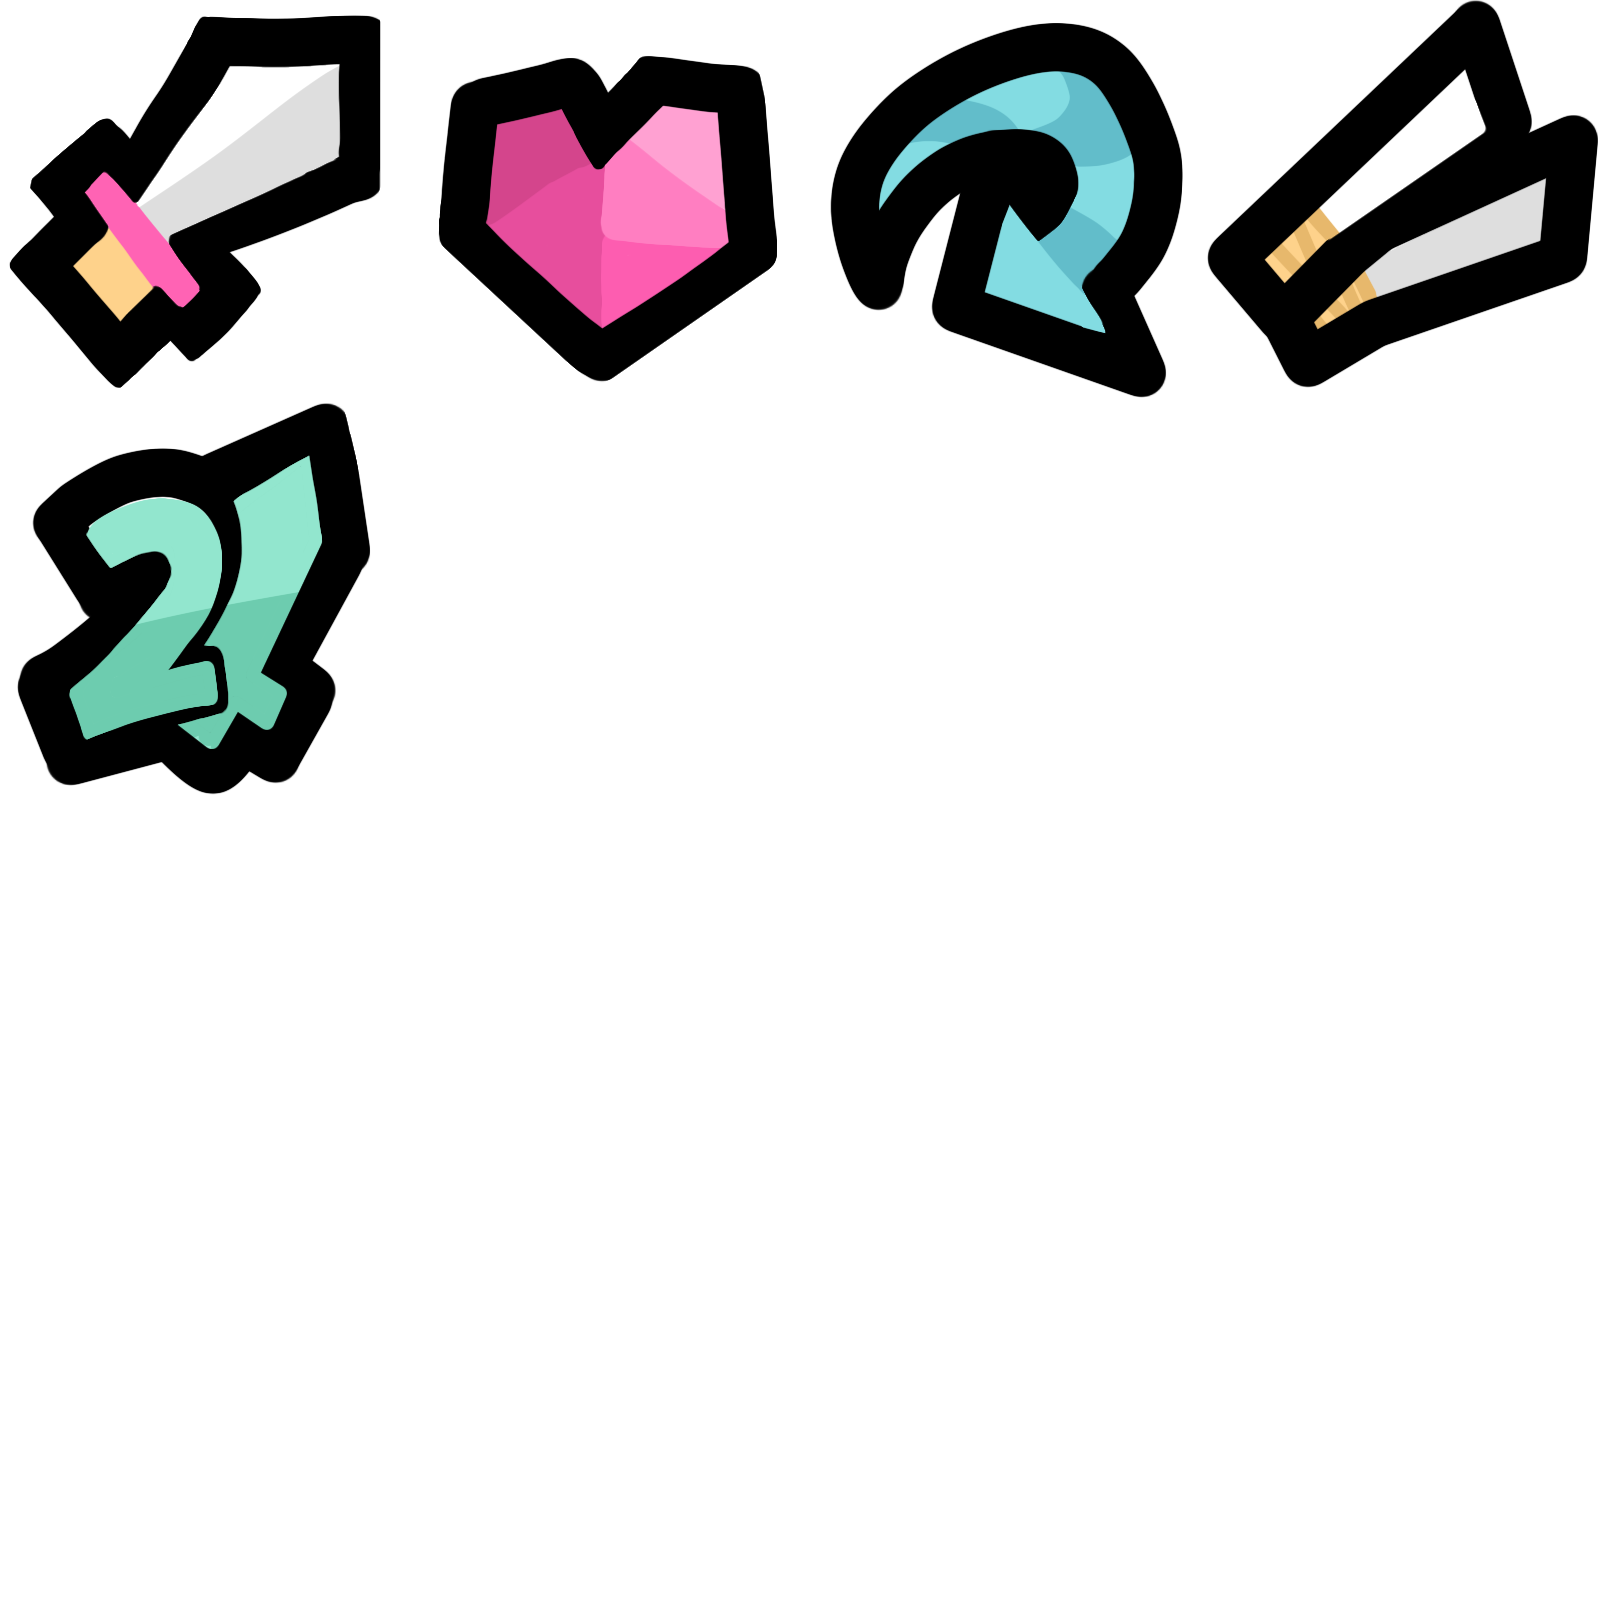
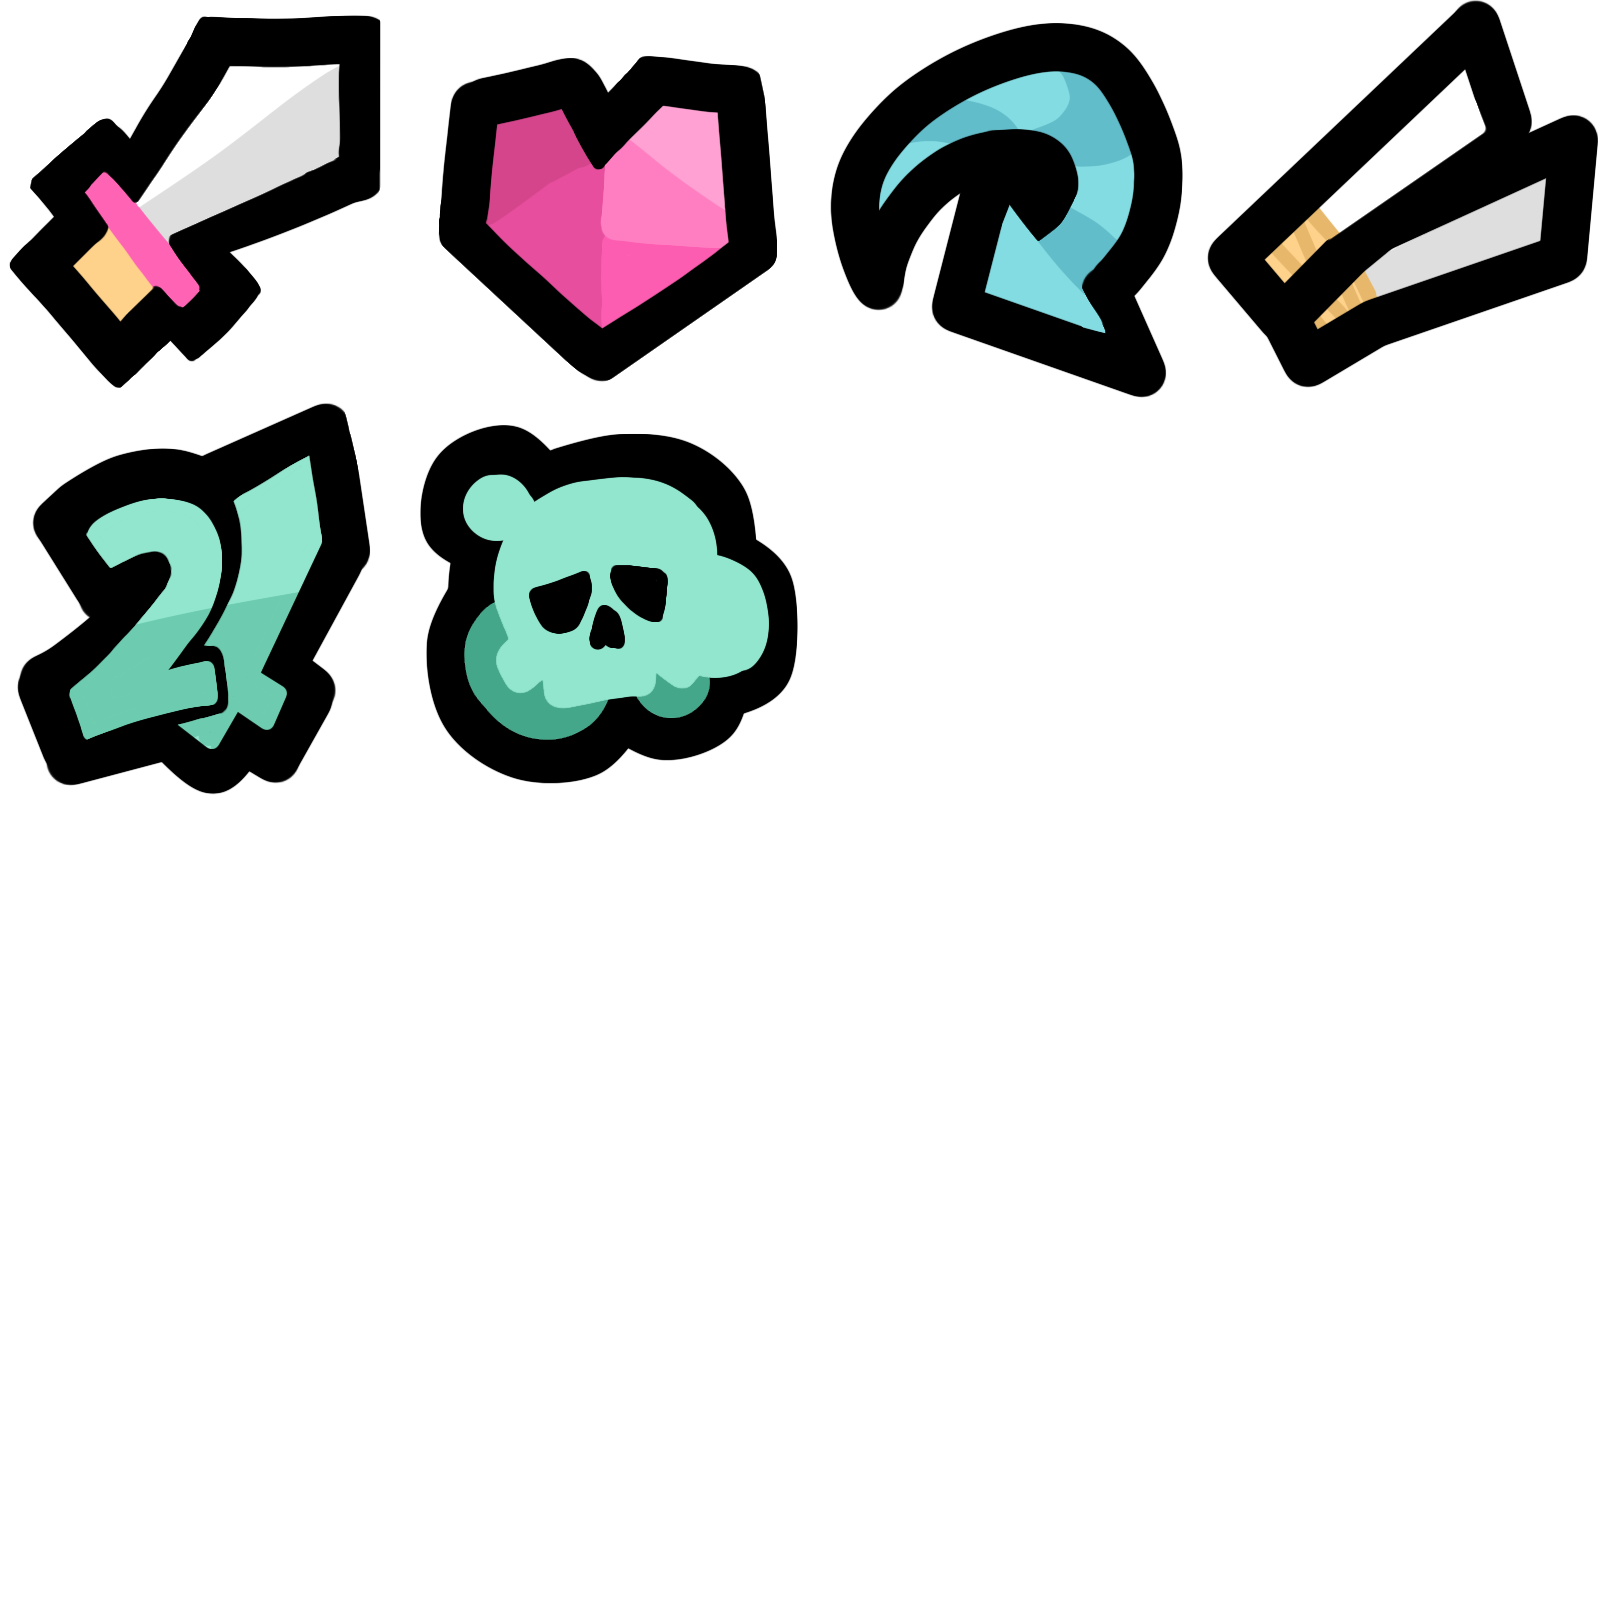
add remain, poison

Changed region(s): [[0.25, 0.25, 0.5, 0.5]]

diff --git a/Assets/Game/Card/Card_Poison.cs b/Assets/Game/Card/Card_Poison.cs
@@ -1,0 +1,97 @@
+using System.Collections;
+using System.Collections.Generic;
+using UnityEngine;
+using Act;
+
+public class Card_Poison : CardData
+{
+    public override IEnumerator OnStart(Entity[] es, int slotCount, int intensity)
+    {
+        Query query = new Query();
+
+        if (intensity > 0)
+        {
+            var act = new Remain(slotCount);
+            query.Add(act);
+            var effect = GameManager.Instance.uiEffectBubble.PrintBySlot(slotCount, "Magic", 1);
+            query.AddBubble(act, effect);
+
+            var i = new SetIntensity(slotCount, intensity - 1);
+            query.Add(i);
+        }
+        else if (intensity == 0)
+        {
+            var act = new Attack(es[1], 2);
+            query.Add(act);
+            var effect = GameManager.Instance.uiEffectBubble.PrintBySlot(slotCount, "Attack", 2);
+            query.AddBubble(act, effect);
+            var del = new Del(slotCount);
+            query.Add(del);
+        }
+
+        yield return new WaitForSeconds(0.5f);
+        yield return query.Process($"{es[0].entityType}{slotCount:00}Poison");
+    }
+
+    public override IEnumerator OnInitialize(Entity[] es, int slotCount, int intensity)
+    {
+        var act = new AddTrigger(new Trigger("A", "A", query => Trigger(query, slotCount, es), query =>
+        {
+            foreach (var act in query)
+            {
+                if (!act.GetType().IsAssignableFrom(typeof(Del)))
+                    continue;
+                var del = (Del)act;
+                Debug.Log($"{CardField.Slot2Count(del.pos)} {slotCount}");
+                if (CardField.Slot2Count(del.pos) == slotCount)
+                    return true;
+            }
+            return false;
+        }));
+        Query query = new Query(act);
+
+        yield return query.Process($"{es[0].entityType}{slotCount:00}AddTrigger");
+    }
+
+    private IEnumerator Trigger(Query query, int slotCount, Entity[] es)
+    {
+        bool isUseful = false;
+        int decrease = 0;
+
+        foreach (var a in query)
+        {
+            if (a.GetType().IsAssignableFrom(typeof(Attack)))
+            {
+                Attack attack = (Attack)a;
+                if (attack.target != es[0])
+                    continue;
+
+                isUseful = true;
+
+                decrease += 1;
+            }
+        }
+
+        if (isUseful)
+        {
+            var slot = GameManager.Instance.card.field.GetSlot(slotCount);
+            int newIntensity = slot.intensity - decrease;
+            if (newIntensity < 0)
+            {
+                var del = new Del(slotCount);
+                query.Add(del);
+            }
+            else
+            {
+                var act = new SetIntensity(slotCount, newIntensity);
+                query.Add(act);
+
+                var effect = GameManager.Instance.uiEffectBubble.PrintBySlot(slotCount, "Magic", decrease);
+                query.AddBubble(act, effect);
+            }
+            yield return new WaitForSeconds(0.5f);
+        }
+        else
+            yield break;
+    }
+}

diff --git a/Assets/Game/UI/CardField.cs b/Assets/Game/UI/CardField.cs
@@ -25,6 +25,7 @@ public class CardField : MonoBehaviour
     }
     public int cardCount { get; private set; }
     public CardFieldItem currentSlot { get => GetSlot(currentPos); }
+    public bool isRunning { get; private set; }
 
     private void Start()
     {
@@ -50,6 +51,8 @@ public class CardField : MonoBehaviour
 
     public IEnumerator RunField()
     {
+        isRunning = true;
+
         currentDir = Vector2Int.right;
         currentPos = Vector2Int.zero;
 
@@ -58,13 +61,23 @@ public class CardField : MonoBehaviour
             for (int y = 0; y < 3; y++)
             {
                 CardFieldItem item = field[x, y];
-                if (item.cardData != null && !item.isCardInitialized)
+                if (item.cardData != null)
                 {
-                    item.isCardInitialized = true;
-                    yield return CardSystem.InvokeTrigger(new Query(), $"AS{Slot2Count(new Vector2Int(x, y)):00}Init");
+                    int count = Slot2Count(new Vector2Int(x, y));
+
+                    if (!item.isCardInitialized)
+                    {
+                        item.isCardInitialized = true;
+
+                        yield return item.InitializeCard(count);
+                        yield return CardSystem.InvokeTrigger(new Query(), $"AS{count:00}Init");
+                    }
+
+                    yield return item.StartCard(count);
                 }
             }
         }
+        yield return new WaitForSeconds(0.5f);
 
         int i;
         var w = new WaitForSeconds(0.05f);
@@ -105,6 +118,11 @@ public class CardField : MonoBehaviour
             for (int y = 0; y < 3; y++)
             {
                 CardFieldItem item = field[x, y];
+                if (item.isRemaining)
+                {
+                    item.isRemaining = false;
+                    continue;
+                }
                 if (item.cardData != null)
                 {
                     var query = new Query(new Del(new Vector2Int(x, y)));
@@ -119,6 +137,8 @@ public class CardField : MonoBehaviour
 
         cardSelector.AddCard(0, GameManager.Instance.card.GetRandomCard());
         cardSelector.AddCard(0, GameManager.Instance.card.GetRandomCard());
+
+        isRunning = false;
 
         yield break;
     }
@@ -150,6 +170,11 @@ public class CardField : MonoBehaviour
         return field[pos[0], pos[1]];
     }
 
+    public CardFieldItem GetSlot(int count)
+    {
+        return GetSlot(Count2Slot(count));
+    }
+
     //temp
     private void RandomFill()
     {
@@ -157,7 +182,7 @@ public class CardField : MonoBehaviour
         {
             for (int j = 0; j < 3; j++)
             {
-                if (Random.value < 0.5f)
+                if (field[i, j].cardData == null && Random.value < 0.5f)
                 {
                     SetCard(i, j, GameManager.Instance.card.GetRandomCard(), EntityType.E);
                 }

diff --git a/Assets/Game/Card/Act.cs b/Assets/Game/Card/Act.cs
@@ -79,6 +79,44 @@ namespace Act
         }
     }
 
+    public class Remain: IAct
+    {
+        int slotCount;
+        bool remain;
+
+        public Remain(int slotCount, bool remain = true)
+        {
+            this.slotCount = slotCount;
+            this.remain = remain;
+        }
+
+        public IEnumerator Activate()
+        {
+            CardField field = GameManager.Instance.card.field;
+            field.GetSlot(slotCount).isRemaining = remain;
+            yield break;
+        }
+    }
+
+    public class SetIntensity: IAct
+    {
+        int slotCount;
+        int intensity;
+
+        public SetIntensity(int slotCount, int intensity)
+        {
+            this.slotCount = slotCount;
+            this.intensity = intensity;
+        }
+
+        public IEnumerator Activate()
+        {
+            CardField field = GameManager.Instance.card.field;
+            field.GetSlot(slotCount).intensity = intensity;
+            yield break;
+        }
+    }
+
     public class Del: IAct
     {
         public Vector2Int pos;
@@ -90,7 +128,7 @@ namespace Act
 
         public Del(int slotCount)
         {
-            pos = new Vector2Int(slotCount / 3, slotCount % 3);
+            pos = CardField.Count2Slot(slotCount);
         }
 
         public IEnumerator Activate()
@@ -175,7 +213,6 @@ namespace Act
             {
                 yield return acts[i].Activate();
             }
-            acts.Clear();
             yield break;
         }
 
@@ -183,7 +220,15 @@ namespace Act
         {
             yield return CardSystem.InvokeTrigger(this, "P" + triggerSuffix);
             yield return Invoke();
+
+            IAct[] temp = new IAct[acts.Count];
+            acts.CopyTo(temp);
+
             yield return CardSystem.InvokeTrigger(this, "A" + triggerSuffix);
+
+            foreach (var act in temp)
+                Remove(act);
+
             yield return Invoke();
         }
 

diff --git a/Assets/Game/UI/CardFieldItem.cs b/Assets/Game/UI/CardFieldItem.cs
@@ -39,6 +39,7 @@ public class CardFieldItem : MonoBehaviour, ISelectable
         }
     }
     private int _intensity;
+    public bool isRemaining;
 
     private bool visibility
     {
@@ -76,7 +77,7 @@ public class CardFieldItem : MonoBehaviour, ISelectable
         if (cardData == null)
         {
             CardSelector cardSelector = parent.cardSelector;
-            if (cardSelector.selectedItem == null)
+            if (cardSelector.selectedItem == null || parent.isRunning)
             {
                 parent.background.Deselect();
                 return;
@@ -136,6 +137,30 @@ public class CardFieldItem : MonoBehaviour, ISelectable
             es = new Entity[] { es[1], es[0] };
 
         yield return cardData.OnActivate(es, parent.slotCount, dir, intensity);
+    }
+
+    public IEnumerator InitializeCard(int slotCount)
+    {
+        var battleground = parent.battleground;
+        if (cardData == null)
+            yield break;
+        Entity[] es = battleground.es;
+        if (type == EntityType.E)
+            es = new Entity[] { es[1], es[0] };
+
+        yield return cardData.OnInitialize(es, slotCount, intensity);
+    }
+
+    public IEnumerator StartCard(int slotCount)
+    {
+        var battleground = parent.battleground;
+        if (cardData == null)
+            yield break;
+        Entity[] es = battleground.es;
+        if (type == EntityType.E)
+            es = new Entity[] { es[1], es[0] };
+
+        yield return cardData.OnStart(es, slotCount, intensity);
     }
 
     public IEnumerator RotateAnim(Rotation r)

diff --git a/Assets/General/FloatingText/FloatingTextManager.cs b/Assets/General/FloatingText/FloatingTextManager.cs
@@ -41,7 +41,7 @@ public class FloatingTextManager : MonoBehaviour
         objPool.InitializeSpawn(textPrefab, 10, 10, AP_enum.EmptyBehavior.ReuseOldest, AP_enum.MaxEmptyBehavior.ReuseOldest);
     }
 
-    public static void Print(string text, Vector2 pos, Color color, int size = 48, float floatingTime = 1, Transform parent = null)
+    public static void Print(string text, Vector2 pos, Color color, int size = 64, float floatingTime = 1, Transform parent = null)
     {
         if (!instance) 
         {

diff --git a/Assets/Game/Card/Card_Attack.cs b/Assets/Game/Card/Card_Attack.cs
@@ -10,7 +10,7 @@ public class Card_Attack : CardData
         var act = new Attack(es[1], intensity);
         Query query = new Query(act);
         
-        var effect = GameManager.Instance.uiEffectBubble.PrintBySlot(slotCount, "Damage", intensity);
+        var effect = GameManager.Instance.uiEffectBubble.PrintBySlot(slotCount, "Attack", intensity);
         query.AddBubble(act, effect);
 
         yield return new WaitForSeconds(0.5f);

diff --git a/Assets/Game/Card/Card_Regen.cs b/Assets/Game/Card/Card_Regen.cs
@@ -10,7 +10,7 @@ public class Card_Regen : CardData
         var act = new Regen(es[0], intensity);
         Query query = new Query(act);
 
-        var effect = GameManager.Instance.uiEffectBubble.PrintBySlot(slotCount, "Heal", intensity);
+        var effect = GameManager.Instance.uiEffectBubble.PrintBySlot(slotCount, "Regen", intensity);
         query.AddBubble(act, effect);
 
         yield return new WaitForSeconds(0.5f);

diff --git a/Assets/Game/Card/CardData.cs b/Assets/Game/Card/CardData.cs
@@ -14,4 +14,14 @@ public class CardData : ScriptableObject
     {
         yield break;
     }
+
+    public virtual IEnumerator OnInitialize(Entity[] es, int slot, int intensity)
+    {
+        yield break;
+    }
+
+    public virtual IEnumerator OnStart(Entity[] es, int slot, int intensity)
+    {
+        yield break;
+    }
 }
